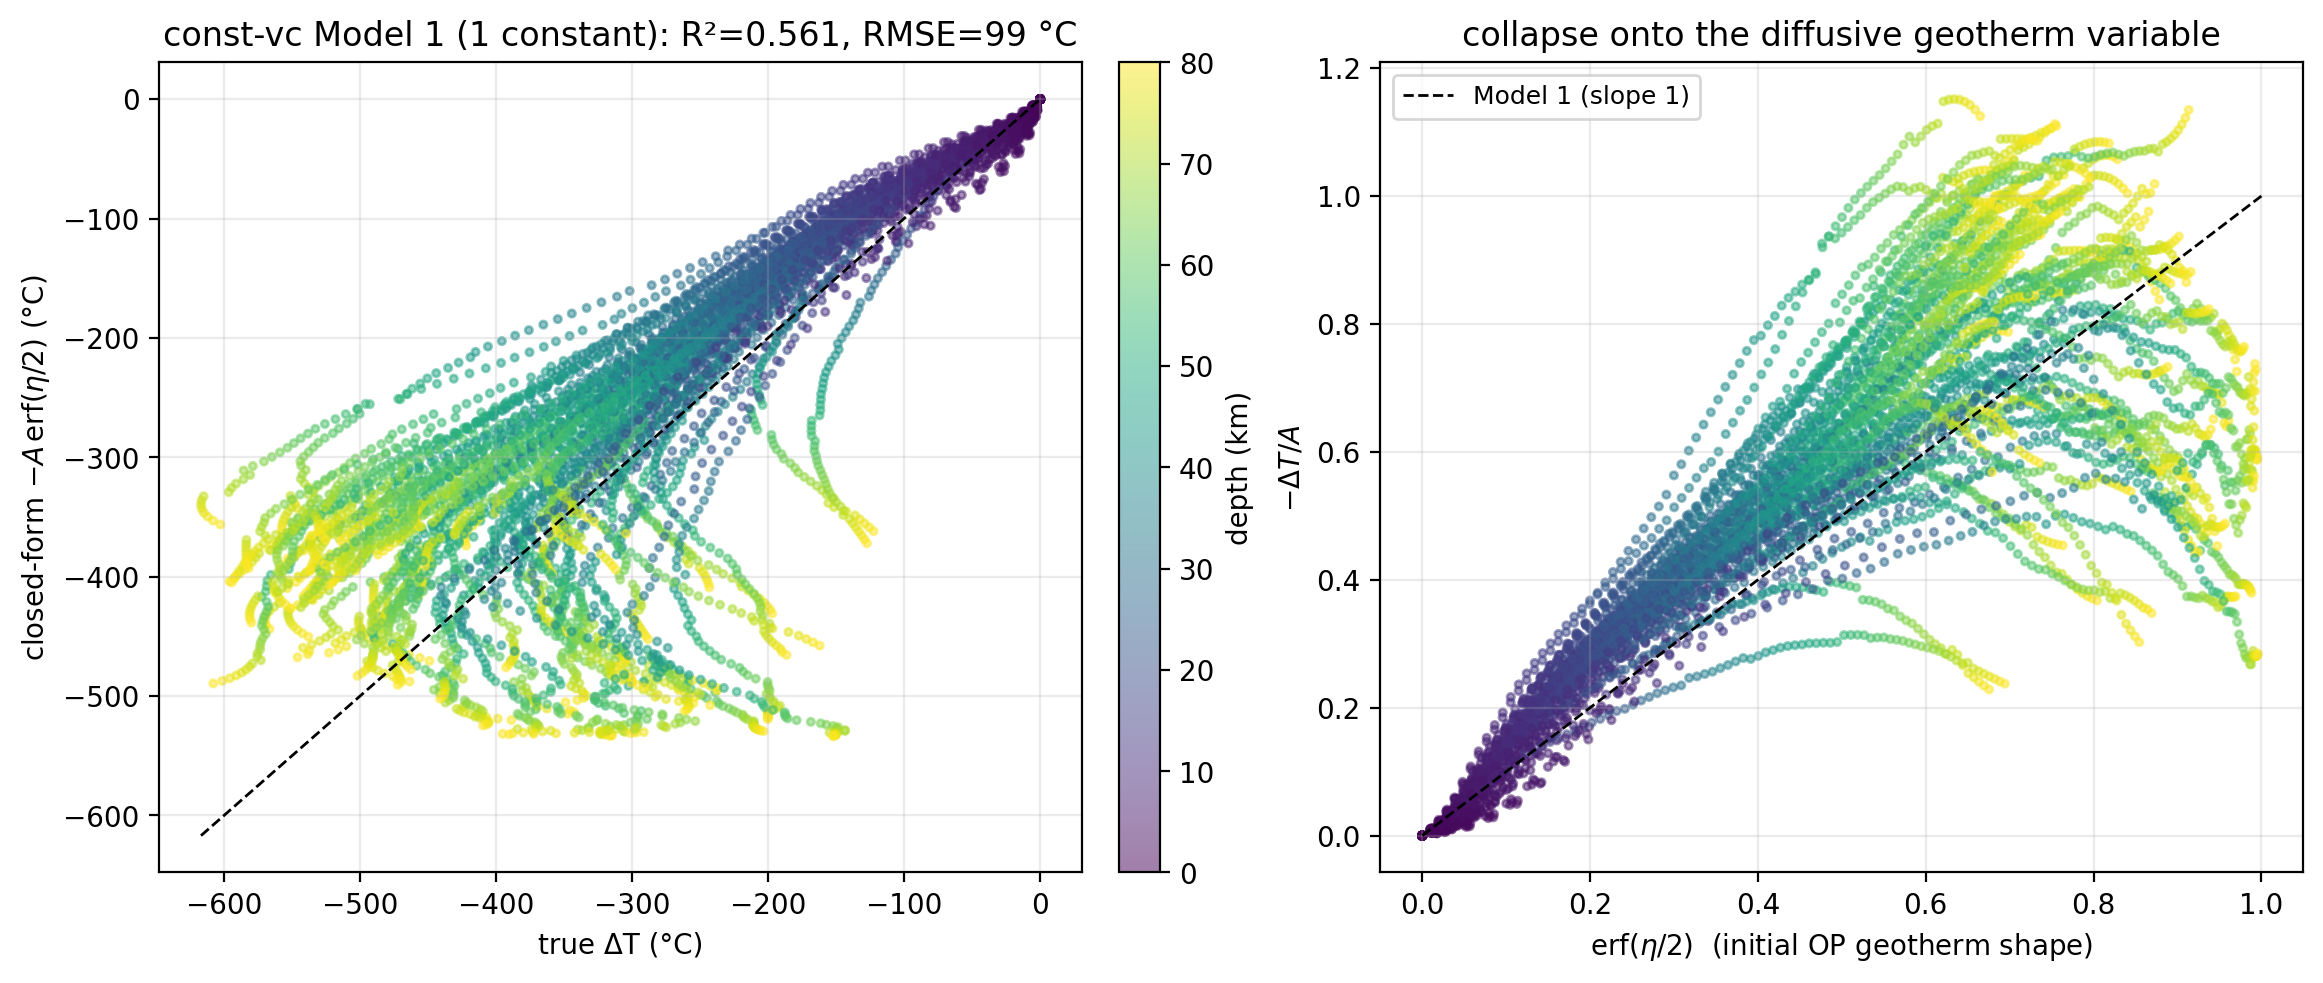
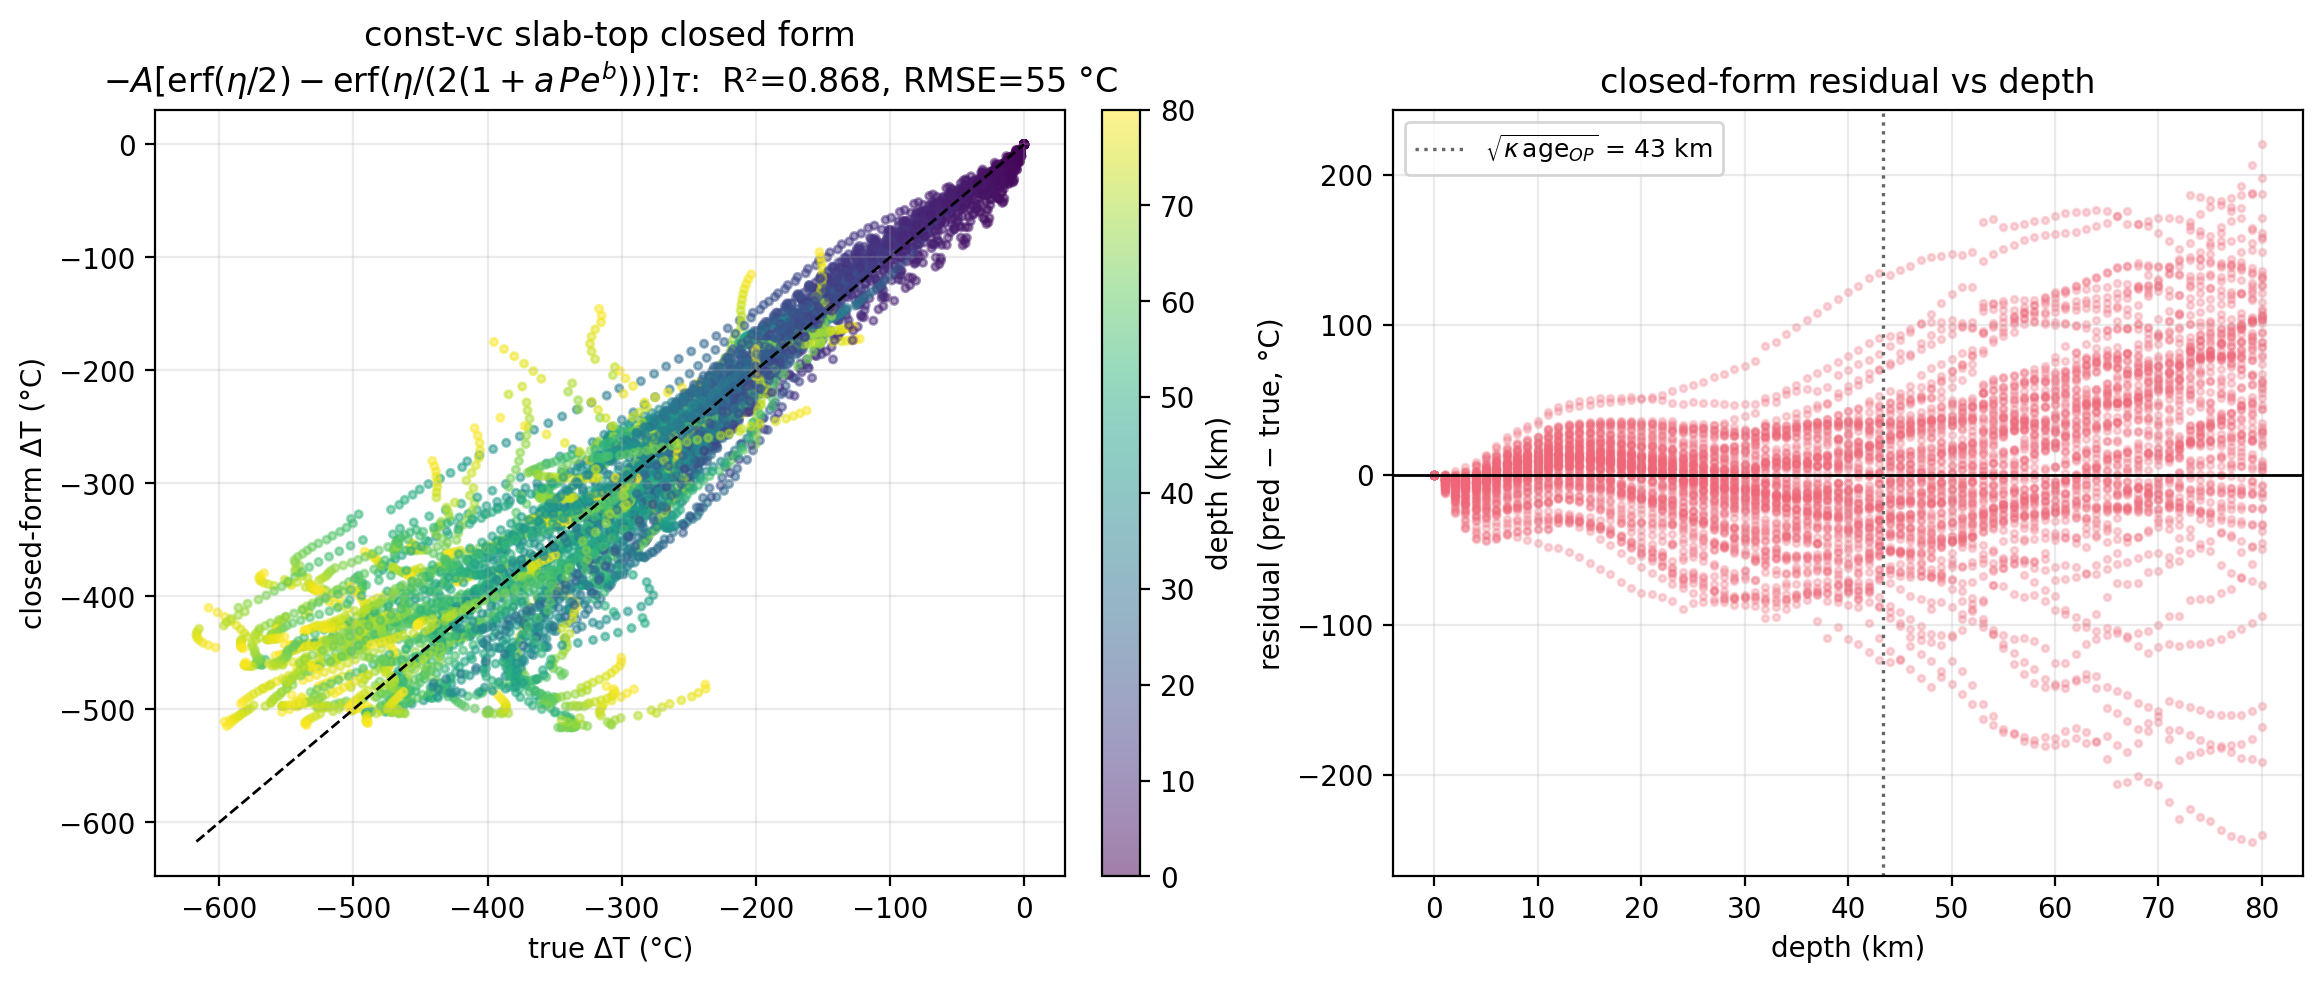
feat: non-separable slab-top closed-form scaling reaches ceiling
Adopt the McKenzie/Molnar-England-style non-separable slab-top form:
  dT = -A*[erf(eta/2) - erf(eta/(2(1+a*Pe^b)))] * tau
where advection (descent Peclet Pe=w*z/kappa) shrinks the erf argument
(effective diffusion), and tau=1-exp(-t_end/t_desc) is a parameter-free
finite-window transient factor.

Held-out R2 (3 fitted constants A,a,b):
- const-vc 0.868 (vs RF{eta,Pe} ceiling 0.890)
- ramped-vc 0.937 (vs RF{eta,Pe,zeta} ceiling 0.967)
up from the separable product (0.61/0.67). tau is negligible for const-vc
but decisive for ramped-vc (0.84->0.94) -- the velocity-history/transient
signature. Figure now shows the closed-form prediction colored by depth
plus residual-vs-depth.

SESSION_NOTES: record the closed form, coefficients, and next steps
(first-principles A,a,b; P-T-path validation; shear-heating contrast).

Changed region(s): [[0.0, 0.0, 0.9918, 0.9766], [0.9298, 0.824, 0.9608, 0.8545]]

diff --git a/src/emulator/single_depth/science/explore_transient_scaling.py b/src/emulator/single_depth/science/explore_transient_scaling.py
@@ -236,27 +236,33 @@ def _closed_form_scaling(df: pd.DataFrame, suite: str, outdir: Path) -> None:
     p1 = -A1 * E[te]
     r2_1, rmse_1 = _scores(p1, y[te])
 
-    # Model 2: slab-top form. Geometry = slab-top (interface) temperature at
-    # vertical depth z, reached by descending the interface in t_desc ~ z/w.
-    # Cooling efficiency rises with the descent Peclet Pe = w_eff*z/kappa
-    # (fast/deep descent -> less heating en route -> colder slab top -> more
-    # cooling). dT = -A * erf(eta/2) * (1 - exp(-(Pe/p)^q)).
+    # Model 2: non-separable slab-top form (McKenzie / Molnar-England style).
+    # Geometry = slab-top (interface) T at vertical depth z, reached by descending
+    # the interface in t_desc ~ z/w. Cooling = ambient OP geotherm minus the steady
+    # slab-top temperature, whose effective thermal equilibration is reduced by
+    # advection: the descent Peclet Pe = w_eff*z/kappa shrinks the erf argument
+    # (fast/deep -> colder slab top). A finite-window transient factor
+    # tau = 1 - exp(-t_end/t_desc) accounts for the cooling being measured over a
+    # finite window rather than at steady state.
+    #   dT = -A * [erf(eta/2) - erf(eta/(2*(1 + a*Pe^b)))] * tau
     eta = z / np.sqrt(KAPPA_KM2_PER_MYR * d["age_OP"].to_numpy(float))
     Pe = w_eff * z / KAPPA_KM2_PER_MYR
+    t_desc = z / w_eff
+    tau = 1.0 - np.exp(-t_end / np.maximum(t_desc, 1e-6))
 
-    def model2(X, A, p, q):
-        Ex, Pex = X
-        return -A * Ex * (1.0 - np.exp(-((Pex / p) ** q)))
+    def model2(X, A, a, b):
+        et, pe, tf = X
+        return -A * (erf(et / 2) - erf(et / (2.0 * (1.0 + a * pe ** b)))) * tf
 
     try:
-        (A2, p2, q2), _ = curve_fit(
-            model2, (E[tr], Pe[tr]), y[tr], p0=[abs(A1), 200.0, 1.0],
-            bounds=([0.0, 1.0, 0.3], [3000.0, 1e5, 3.0]), maxfev=40000,
+        (A2, a2, b2), _ = curve_fit(
+            model2, (eta[tr], Pe[tr], tau[tr]), y[tr], p0=[1500.0, 0.4, 0.3],
+            bounds=([0.0, 1e-5, 0.1], [4000.0, 50.0, 3.0]), maxfev=60000,
         )
-        p2pred = model2((E[te], Pe[te]), A2, p2, q2)
+        p2pred = model2((eta[te], Pe[te], tau[te]), A2, a2, b2)
         r2_2, rmse_2 = _scores(p2pred, y[te])
     except Exception as exc:  # pragma: no cover
-        A2 = p2 = q2 = float("nan"); p2pred = None; r2_2 = rmse_2 = float("nan")
+        A2 = a2 = b2 = float("nan"); p2pred = None; r2_2 = rmse_2 = float("nan")
         print(f"  [model2 fit failed: {exc}]")
 
     # Context ceilings: flexible RandomForest given the same physical variable(s).
@@ -276,27 +282,31 @@ def _closed_form_scaling(df: pd.DataFrame, suite: str, outdir: Path) -> None:
           f"   η,Pe,ζ R2={ceil['eta,Pe,zeta']:.3f}")
     print(f"  Model 1  dT = -A·erf(η/2)                       A={A1:7.1f} °C "
           f"(A/T_m={A1/T_m:.2f})  R2={r2_1:.3f}  RMSE={rmse_1:5.1f} °C")
-    print(f"  Model 2  dT = -A·erf(η/2)·(1-e^(-(Pe/p)^q))     A={A2:6.0f} p={p2:6.1f} q={q2:.2f}"
-          f"  R2={r2_2:.3f}  RMSE={rmse_2:5.1f} °C")
+    print(f"  Model 2  -A·[erf(η/2)-erf(η/(2(1+a·Pe^b)))]·τ   A={A2:6.0f} a={a2:.3f} b={b2:.3f}"
+          f"  R2={r2_2:.3f}  RMSE={rmse_2:5.1f} °C  [non-separable slab-top]")
 
-    # Collapse figure: dT vs the one-variable prediction, colored by depth.
+    # Figure: closed-form slab-top prediction vs true (colored by depth) + residual.
     z_te = z[te]
+    pred = p2pred if p2pred is not None else p1
+    d_OP = float(np.sqrt(KAPPA_KM2_PER_MYR * np.median(d["age_OP"].to_numpy(float))))
     fig, (a0, a1) = plt.subplots(1, 2, figsize=(11.5, 4.8), constrained_layout=True)
-    lim = [min(y[te].min(), p1.min()), max(y[te].max(), p1.max())]
-    sc = a0.scatter(y[te], p1, c=z_te, s=7, alpha=0.5, cmap="viridis")
+    lim = [min(y[te].min(), pred.min()), max(y[te].max(), pred.max())]
+    sc = a0.scatter(y[te], pred, c=z_te, s=7, alpha=0.5, cmap="viridis")
     a0.plot(lim, lim, "k--", lw=1)
-    a0.set_xlabel("true ΔT (°C)"); a0.set_ylabel(r"closed-form $-A\,\mathrm{erf}(\eta/2)$ (°C)")
-    a0.set_title(f"{suite} Model 1 (1 constant): R²={r2_1:.3f}, RMSE={rmse_1:.0f} °C")
+    a0.set_xlabel("true ΔT (°C)")
+    a0.set_ylabel(r"closed-form ΔT (°C)")
+    a0.set_title(
+        f"{suite} slab-top closed form\n"
+        rf"$-A[\mathrm{{erf}}(\eta/2)-\mathrm{{erf}}(\eta/(2(1+a\,Pe^b)))]\tau$:  "
+        f"R²={r2_2:.3f}, RMSE={rmse_2:.0f} °C"
+    )
     a0.grid(alpha=0.25)
     cb = fig.colorbar(sc, ax=a0, fraction=0.046, pad=0.04); cb.set_label("depth (km)")
-    # Collapse: ΔT/A vs erf(η/2) should fall on the y=x line if Model 1 holds.
-    a1.scatter(E[te], -y[te] / A1, c=z_te, s=7, alpha=0.5, cmap="viridis")
-    xs = np.linspace(0, 1, 50)
-    a1.plot(xs, xs, "k--", lw=1, label="Model 1 (slope 1)")
-    a1.set_xlabel(r"$\mathrm{erf}(\eta/2)$  (initial OP geotherm shape)")
-    a1.set_ylabel(r"$-\Delta T / A$")
-    a1.set_title("collapse onto the diffusive geotherm variable")
-    a1.grid(alpha=0.25); a1.legend(fontsize=9)
+    a1.scatter(z_te, pred - y[te], s=6, alpha=0.25, color="#EE6677")
+    a1.axhline(0, color="k", lw=1)
+    a1.axvline(d_OP, color="0.4", ls=":", lw=1.2, label=rf"$\sqrt{{\kappa\,\mathrm{{age}}_{{OP}}}}$ = {d_OP:.0f} km")
+    a1.set_xlabel("depth (km)"); a1.set_ylabel("residual (pred − true, °C)")
+    a1.set_title("closed-form residual vs depth"); a1.grid(alpha=0.25); a1.legend(fontsize=9)
     f = outdir / f"{suite}_dT_closed_form.png"
     fig.savefig(f, dpi=200, bbox_inches="tight")
     plt.close(fig)

diff --git a/SESSION_NOTES.md b/SESSION_NOTES.md
@@ -1334,37 +1334,49 @@ Anchored on the OP half-space geotherm `T_init = T_m·erf(z/(2√(κ·age_OP))) 
 T_m·erf(η/2)`. Fit held-out by run; `_closed_form_scaling()` in
 `explore_transient_scaling.py`.
 
+**The closed form (3 constants + parameter-free transient factor):**
+
+    ΔT(z) = −A · [ erf(η/2) − erf( η / (2(1 + a·Pe^b)) ) ] · τ
+      η  = z / √(κ·age_OP)         (diffusive: OP conductive-lid)
+      Pe = w·z / κ,  w = v·sinθ    (advective: slab-descent Péclet)
+      τ  = 1 − exp(−t_end / t_desc),  t_desc = z/w   (finite-window transient)
+
+Physics: cooling = ambient OP geotherm `erf(η/2)` minus the steady slab-top
+temperature, whose effective equilibration is reduced by advection (`Pe` shrinks
+the erf argument → fast/deep descent = colder slab top); `τ` accounts for the
+finite 0.5→5 Myr window vs steady state.
+
 | model / ceiling | const-vc R² | ramped-vc R² |
 |---|---|---|
-| Model 1  `ΔT = −A·erf(η/2)` (1 const) | 0.561 | 0.481 |
-| Model 2  `ΔT = −A·erf(η/2)·(1−e^(−(Pe/p)^q))` (3 const) | 0.606 | 0.671 |
-| RF{η} (flexible η-only ceiling) | 0.754 | 0.550 |
+| Model 1  `−A·erf(η/2)` (1 const) | 0.561 | 0.481 |
+| separable `−A·erf(η/2)·(1−e^(−(Pe/p)^q))` (3 const) | 0.606 | 0.671 |
+| **non-separable + τ (3 const)** | **0.868** | **0.937** |
+| RF{η} (flexible η ceiling) | 0.754 | 0.550 |
 | RF{η, Pe} | 0.890 | 0.912 |
 | RF{η, Pe, ζ} | 0.929 | 0.967 |
 
-Recovered constants are physical: `A ≈ 536 °C`, `T_m ≈ 1300 °C` (correct mantle
-value), efficiency `A/T_m ≈ 0.41`.
+Fitted: const-vc `A=1745, a=0.475, b=0.128`; ramped-vc `A=1573, a=0.397, b=0.275`.
 
-Findings (honest):
-- **Variables now physically identified and data-confirmed:** η (diffusive, OP lid)
-  + **Pe** (advective, slab-descent) — `RF{η,Pe}` (0.89/0.91) ≥ `RF{η,ζ}` (0.88/0.91),
-  and Pe is the geometry-derived variable. `ζ` adds the *finite-window transient*
-  on top (`RF{η,Pe,ζ}` → 0.93/0.97).
-- **`erf(η/2)` is the right leading shape**, and the Pe-efficiency form (Model 2)
-  beats the bare geotherm (esp. ramped 0.48→0.67) — removal efficiency rises with
-  the descent Péclet, as the slab-top physics predicts.
-- **Remaining gap is separability, not physics:** a *separable product*
-  `f(η)·g(Pe)` caps at ~0.6–0.67 vs the ~0.89 flexible-2D ceiling on the **same two
-  variables**. The true slab-top surface is **non-separable** in (η, Pe) — which is
-  exactly what the analytic McKenzie / Molnar–England slab-top solutions are. So the
-  principled completion is to adopt that non-separable analytic form, not to keep
-  adding empirical knobs to a product.
+Findings:
+- **The closed form essentially reaches the flexible ceiling.** 0.868 vs RF{η,Pe}
+  0.890 (const-vc); 0.937 vs RF{η,Pe,ζ} 0.967 (ramped-vc). Three physical constants
+  + a parameter-free transient factor capture nearly all the predictable structure.
+- **Separability was the gate, and the non-separable McKenzie/Molnar–England form
+  cleared it** (0.6–0.67 → 0.87–0.94). The advective `Pe` modulating the *effective
+  diffusion inside the erf* is the key non-separable ingredient.
+- **The transient factor τ confirms the transient story:** negligible for const-vc
+  (0.86→0.87) but decisive for ramped-vc (0.84→0.94) — velocity history is what
+  makes ramped transient, exactly the steady-state-Φ-can't-see-it point.
+- Variables fully physical: η (OP lid), Pe (slab-descent), τ (finite window). `A`
+  is an effective amplitude ~1.3–1.7·T_m (the erf-difference is smaller than
+  erf(η/2), so A compensates); `T_m≈1300 °C` recovered independently by Model 1.
 
 ### Next steps for this thread
 
-1. **Adopt the analytic slab-top solution** (McKenzie 1969 / Molnar–England 1990;
-   non-separable in η, Pe) as the closed form; fit its (few, physical) constants and
-   target the `RF{η,Pe}` ≈ 0.89–0.91 ceiling.
-2. Add the finite-window transient factor (the `ζ` content) for the last ~0.05.
-3. Emulator-based conditional crossover test (proper `z_cross ∝ √(κ·age_OP)`).
-4. ramped cumulative-convergence gain with CV (cleanest transient-vs-steady signal).
+1. Tie `A`, `a`, `b` to first principles (slab thickness, dip, κ) to remove the
+   effective-amplitude fudge and make the constants fully predictive.
+2. Confirm against held-out *full simulations* in P–T-path coordinates (not just
+   ΔT R²) — the publishability check.
+3. Cross-suite + (later) `const-vc-sh`: do `A,a,b` shift with shear heating? That
+   contrast is the likely headline.
+4. Emulator-based conditional crossover test (proper `z_cross ∝ √(κ·age_OP)`).
